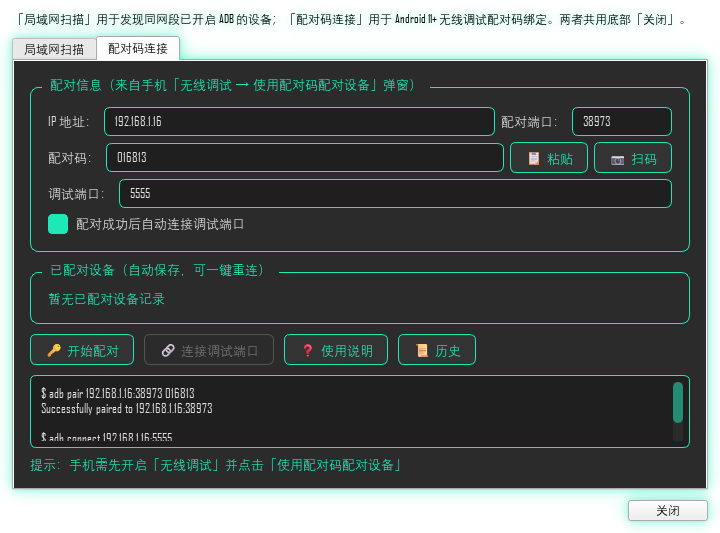
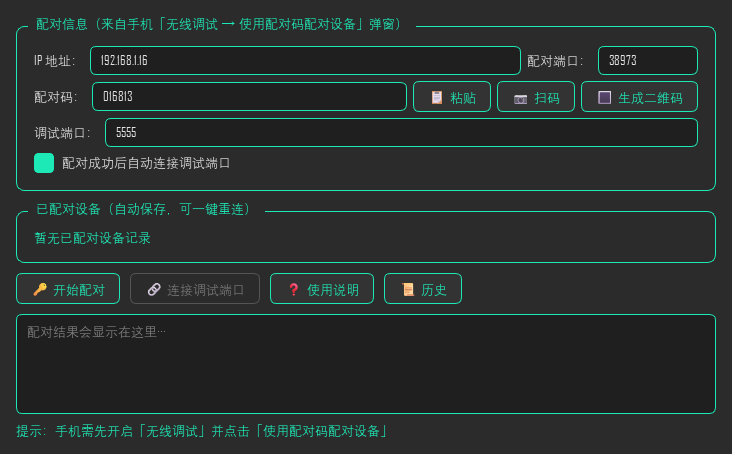
feat(wifi): 新增 PC 端「生成二维码」按钮供手机扫描配对信息
- 在「配对码连接」页的 IP/端口/配对码输入区旁新增「🔳 生成二维码」按钮，与已有的「📷 扫码」方向互补：
  - 扫码：PC 读取手机/电视弹出的配对二维码并自动填入。
  - 生成二维码：PC 弹出二维码，手机扫描即可查看连接目标与配对码，类似 Android Studio「Pair Devices Using Wi-Fi」的二维码窗口。
- 采用 Android 无线调试二维码标准格式 WIFI:T:ADB;S:<IP>:<端口>;P:<配对码>;;，并用 segno 生成高对比度 PNG。
- 弹窗显示二维码、连接目标、配对码、原始内容、复制按钮及使用说明。
- 新增 segno 依赖并写入 requirements.txt；在 pyinstall_y.py 中加入 hidden-import 保证冻结构建可用。
- 更新 feature_intro/wireless-debug-guide.md 与 README.md，新增/替换无线调试截图（wireless-debug-qr.png）。

diff --git a/Super_ADB_Main/dialogs/wifi_pair_dialog.py b/Super_ADB_Main/dialogs/wifi_pair_dialog.py
@@ -14,13 +14,17 @@ WiFi 配对连接弹窗
   - 配对成功后回填主窗口 ipInput，方便下一步 connect
 """
 
+import io
+import random
 import re
+import socket
 import subprocess
 import sys
 import time
 
-from PySide6.QtCore import Qt, QThread, Signal, QObject, QTimer
-from PySide6.QtGui import QIcon, QIntValidator, QRegularExpressionValidator
+from PySide6.QtCore import Qt, QThread, Signal, QObject, QTimer, QByteArray
+from PySide6.QtGui import (QIcon, QIntValidator, QRegularExpressionValidator,
+                          QPixmap, QImage)
 from PySide6.QtWidgets import (
     QApplication, QDialog, QVBoxLayout, QHBoxLayout, QLabel,
     QLineEdit, QPushButton, QGroupBox, QMessageBox, QTextEdit,
@@ -199,6 +203,13 @@ class WifiPairDialog(QDialog):
         self.btn_scan.setToolTip("从剪贴板图片或文件扫描二维码（手机无线调试配对二维码）")
         self.btn_scan.clicked.connect(self._scan_qr)
         h2.addWidget(self.btn_scan)
+
+        self.btn_generate = QPushButton("🔳 生成二维码")
+        self.btn_generate.setToolTip(
+            "生成当前配对信息的二维码（弹窗展示），用手机扫描即可获取配对信息——"
+            "类似 Android Studio「Pair Devices Using Wi-Fi」弹出的二维码窗口")
+        self.btn_generate.clicked.connect(self._generate_qr)
+        h2.addWidget(self.btn_generate)
         v.addLayout(h2)
 
         # 调试端口（配对成功后用来 connect）
@@ -387,6 +398,126 @@ class WifiPairDialog(QDialog):
             self._log("✅ 已从二维码解析并填入")
         else:
             self._log("⚠ 二维码中未找到 IP:端口 或 6 位配对码，请手动填写")
+
+    # ══════════════════════════════════════════════════════════
+    # 生成二维码（PC 弹出，手机扫描，类似 Android Studio 的 Pair Devices Using Wi-Fi）
+    # ══════════════════════════════════════════════════════════
+    def _get_lan_ip(self):
+        """获取本机在局域网内的 IPv4 地址（用于生成可供手机扫描的二维码）。"""
+        s = socket.socket(socket.AF_INET, socket.SOCK_DGRAM)
+        try:
+            s.connect(('8.8.8.8', 80))
+            return s.getsockname()[0]
+        except Exception:
+            return '127.0.0.1'
+        finally:
+            try:
+                s.close()
+            except Exception:
+                pass
+
+    def _build_qr_payload(self):
+        """构造 Android 无线调试标准二维码内容：WIFI:T:ADB;S:<name>;P:<code>;;
+
+        返回 (payload, ip, port, code)。
+        - S 字段写入「IP:端口」便于用普通扫码 App 直接看到连接目标；
+        - P 字段写入 6 位配对码，缺省时自动生成并回填到输入框。
+        """
+        ip = self.ip_edit.text().strip()
+        port = self.port_edit.text().strip()
+        code = self.code_edit.text().strip()
+        if not ip:
+            ip = self._get_lan_ip()
+        if not port:
+            port = '5555'
+        if not re.match(r"^\d{6}$", code):
+            code = f"{random.randint(0, 999999):06d}"
+            self.code_edit.setText(code)
+        name = f"{ip}:{port}"
+        payload = f"WIFI:T:ADB;S:{name};P:{code};;"
+        return payload, ip, port, code
+
+    def _generate_qr(self):
+        """生成当前配对信息的二维码并弹窗展示，供手机扫描。"""
+        payload, ip, port, code = self._build_qr_payload()
+        try:
+            import segno
+        except Exception as e:
+            QMessageBox.warning(
+                self, "缺少依赖",
+                f"二维码生成库 segno 未安装：{e}\n请执行：pip install segno")
+            return
+        try:
+            buf = io.BytesIO()
+            qr = segno.make(payload, error='m')
+            qr.save(buf, kind='png', scale=10, border=2,
+                    dark='#0b0e14', light='#ffffff')
+            png = buf.getvalue()
+            img = QImage.fromData(QByteArray(png))
+            pix = QPixmap.fromImage(img)
+        except Exception as e:
+            self._log(f"⚠ 生成二维码失败：{e}")
+            return
+        if pix.isNull():
+            self._log("⚠ 二维码图像渲染失败")
+            return
+        self._show_qr_dialog(payload, ip, port, code, pix)
+
+    def _build_qr_dialog(self, payload, ip, port, code, pix):
+        dlg = QDialog(self)
+        dlg.setWindowTitle("扫码配对二维码")
+        dlg.setWindowIcon(QIcon(":/Super_ADB.png"))
+        dlg.setMinimumWidth(360)
+        dlg.setMinimumHeight(480)
+        add_green_glow(dlg)
+
+        root = QVBoxLayout(dlg)
+        root.setSpacing(10)
+        root.setContentsMargins(16, 16, 16, 16)
+
+        title = QLabel("📱 用手机扫描此二维码")
+        title.setAlignment(Qt.AlignCenter)
+        root.addWidget(title)
+
+        # 二维码放在白色卡片上，保证手机相机高对比度识别
+        qr_card = QLabel()
+        qr_card.setAlignment(Qt.AlignCenter)
+        qr_card.setStyleSheet(
+            "background:#ffffff; border-radius:8px; padding:14px;")
+        qr_card.setPixmap(pix)
+        root.addWidget(qr_card)
+
+        info = QLabel(f"连接目标：{ip}:{port}\n配对码：{code}")
+        info.setAlignment(Qt.AlignCenter)
+        root.addWidget(info)
+
+        raw = QTextEdit()
+        raw.setReadOnly(True)
+        raw.setPlainText(payload)
+        raw.setMaximumHeight(56)
+        root.addWidget(raw)
+
+        copy_btn = QPushButton("📋 复制二维码内容")
+        copy_btn.clicked.connect(lambda: QApplication.clipboard().setText(payload))
+        root.addWidget(copy_btn)
+
+        note = QLabel(
+            "说明：本二维码采用 Android 无线调试标准格式（WIFI:T:ADB;...）。\n"
+            "• 用手机相机或任意扫码 App 扫描，即可读取上面的连接目标与配对码；\n"
+            "• 若想让手机在「无线调试 → 使用二维码配对设备」中直接配对本机，"
+            "需本机先作为配对服务端监听（当前为 PC 连接设备模式，扫码主要用于转移/核对配对信息）。")
+        note.setWordWrap(True)
+        note.setStyleSheet(f"color:{ACCENT};")
+        root.addWidget(note)
+
+        close_btn = QPushButton("关闭")
+        close_btn.clicked.connect(dlg.accept)
+        root.addWidget(close_btn)
+
+        return dlg
+
+    def _show_qr_dialog(self, payload, ip, port, code, pix):
+        self._build_qr_dialog(payload, ip, port, code, pix).exec()
 
     # ══════════════════════════════════════════════════════════
     # 配对
@@ -652,6 +783,7 @@ class WifiPairDialog(QDialog):
             "快捷操作：\n"
             "• 点击「📋 粘贴」可直接从剪贴板自动解析 IP:端口 和配对码\n"
             "• 点击「📷 扫码」可扫描手机无线调试二维码自动填入\n"
+            "• 点击「🔳 生成二维码」可弹出二维码，用手机扫描以转移/核对配对信息\n"
             "• 勾选「配对成功后自动连接」后，配对成功会自动执行 connect\n"
             "• 连接失败时会自动尝试 5555 / 配对端口 / 37800 等候选端口\n"
             "• 已配对设备会自动保存，下次打开弹窗可一键重连")

diff --git a/Super_ADB_Main/pyinstall_y.py b/Super_ADB_Main/pyinstall_y.py
@@ -26,15 +26,20 @@ def install(main):
     if not os.path.isabs(main):
         main = os.path.join(here, main)
 
+    # 显式声明隐藏依赖，避免 PyInstaller 在冻结时漏打包仅被局部 import 的模块
+    hidden = " ".join(
+        f'--hidden-import {m}' for m in ('segno', 'segno.helpers')
+    )
+
     name = f"Super_ADB"
     if sys.platform == 'darwin':
         # macOS: 生成 .app，图标用 .icns（如有）否则 .png
         icon = os.path.join(here, 'adb.icns') if os.path.exists(os.path.join(here, 'adb.icns')) else os.path.join(here, 'Super_ADB.png')
-        cmd = f'pyinstaller --clean -w -i "{icon}" -n {name} {path_args} "{main}"'
+        cmd = f'pyinstaller --clean -w -i "{icon}" -n {name} {hidden} {path_args} "{main}"'
     else:
         # Windows: 生成 .exe
         icon = os.path.join(here, 'Super_ADB.png')
-        cmd = f'pyinstaller --clean -w -i "{icon}" -n {name} {path_args} "{main}"'
+        cmd = f'pyinstaller --clean -w -i "{icon}" -n {name} {hidden} {path_args} "{main}"'
     os.system(cmd)
     print('配置文件生成成功')
 

diff --git a/feature_intro/wireless-debug-guide.md b/feature_intro/wireless-debug-guide.md
@@ -45,10 +45,29 @@
 ### 标签页 2：配对码连接
 
 - 输入 IP、配对端口、6 位配对码（或一键粘贴 / 扫码）。
+- 点击 **「🔳 生成二维码」** 可弹窗生成当前配对信息的二维码，用手机扫描即可查看/复制连接目标与配对码——类似 Android Studio「Pair Devices Using Wi-Fi」弹出的二维码窗口。
 - 配对成功后自动连接调试端口（默认 5555）。
 - 已配对设备自动保存，可一键重连。
 - 配对 / 连接历史可导出 CSV / JSON。
 - 详细用法见 [wifi-pair-guide.md](wifi-pair-guide.md)。
+
+### 二维码弹窗
+
+<p align="center">
+  <img src="wireless-debug-qr.png" width="400" alt="无线调试 - 生成二维码弹窗"/>
+</p>
+
+点击「🔳 生成二维码」后，弹窗会展示采用 Android 无线调试标准格式的二维码：
+
+```text
+WIFI:T:ADB;S:<IP>:<端口>;P:<配对码>;;
+```
+
+- 手机相机或任意扫码 App 可直接读取上面的 IP、端口与配对码。
+- 弹窗底部同时显示原始内容，并提供「复制二维码内容」按钮，方便转发/备用。
+- 二维码内容遵循 Android 无线调试二维码规范（`WIFI:T:ADB;S:...;P:...;;`），与已有的「📷 扫码」功能方向互补：
+  - 📷 **扫码**：PC 扫描手机/电视弹出的配对二维码，自动填入本窗口。
+  - 🔳 **生成二维码**：PC 生成配对信息二维码，手机扫描即可查看连接目标。
 
 ---
 
@@ -80,3 +99,4 @@
 ## 六、变更记录
 
 - **2026-08-09**：随 commit `e657c0a` 新增「无线调试」统一面板，并补齐本文档与截图。
+- **2026-08-10**：随新增 PC 端「生成二维码」按钮（手机扫描），更新弹窗说明与二维码弹窗截图。
